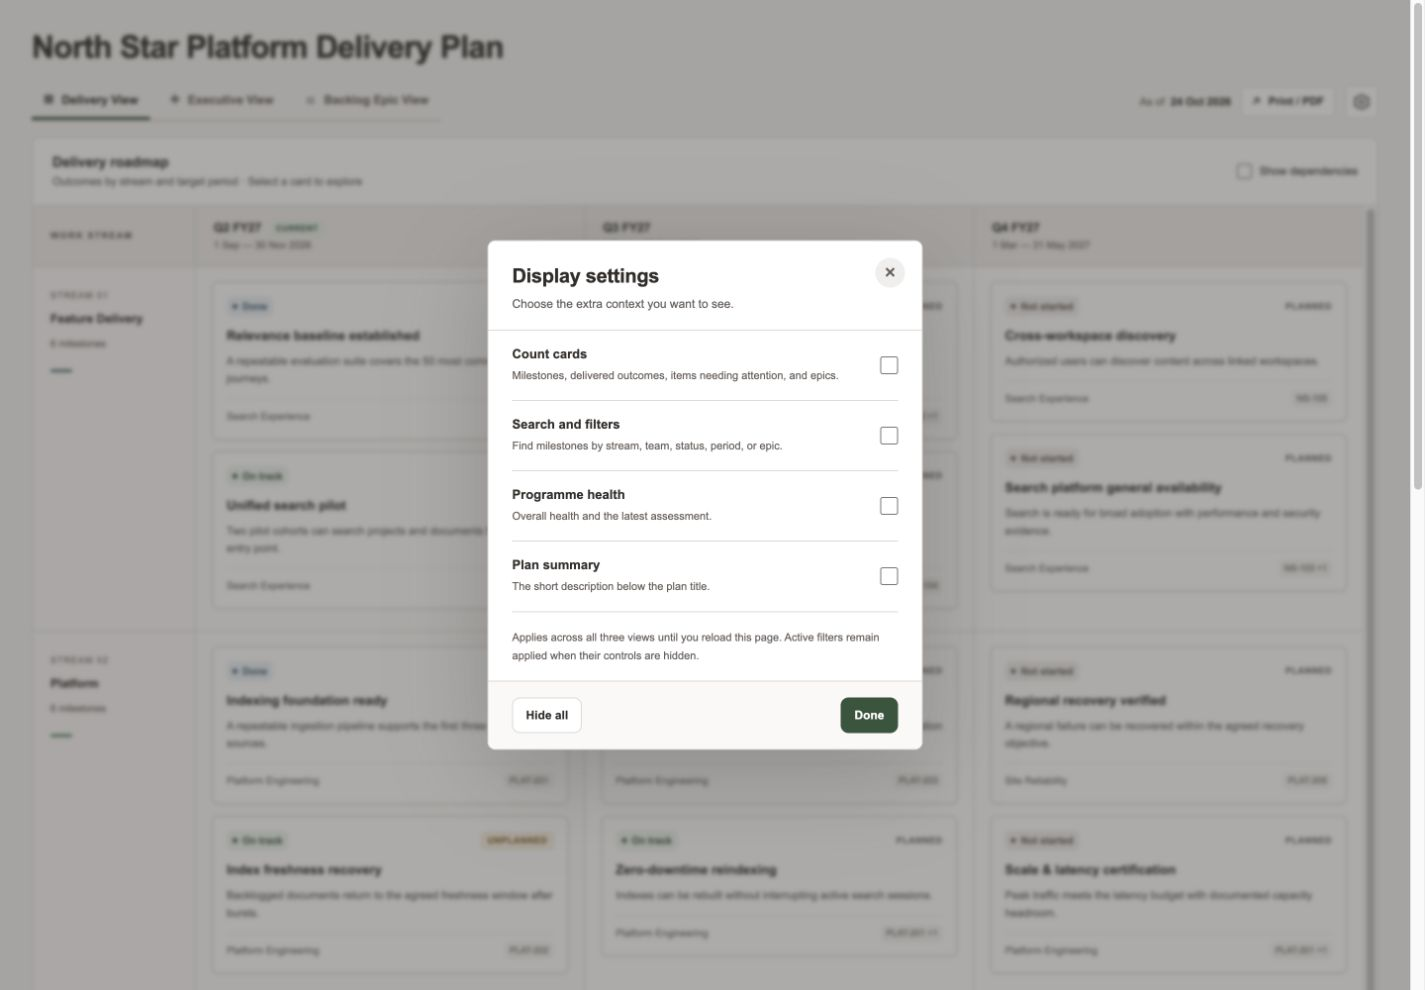
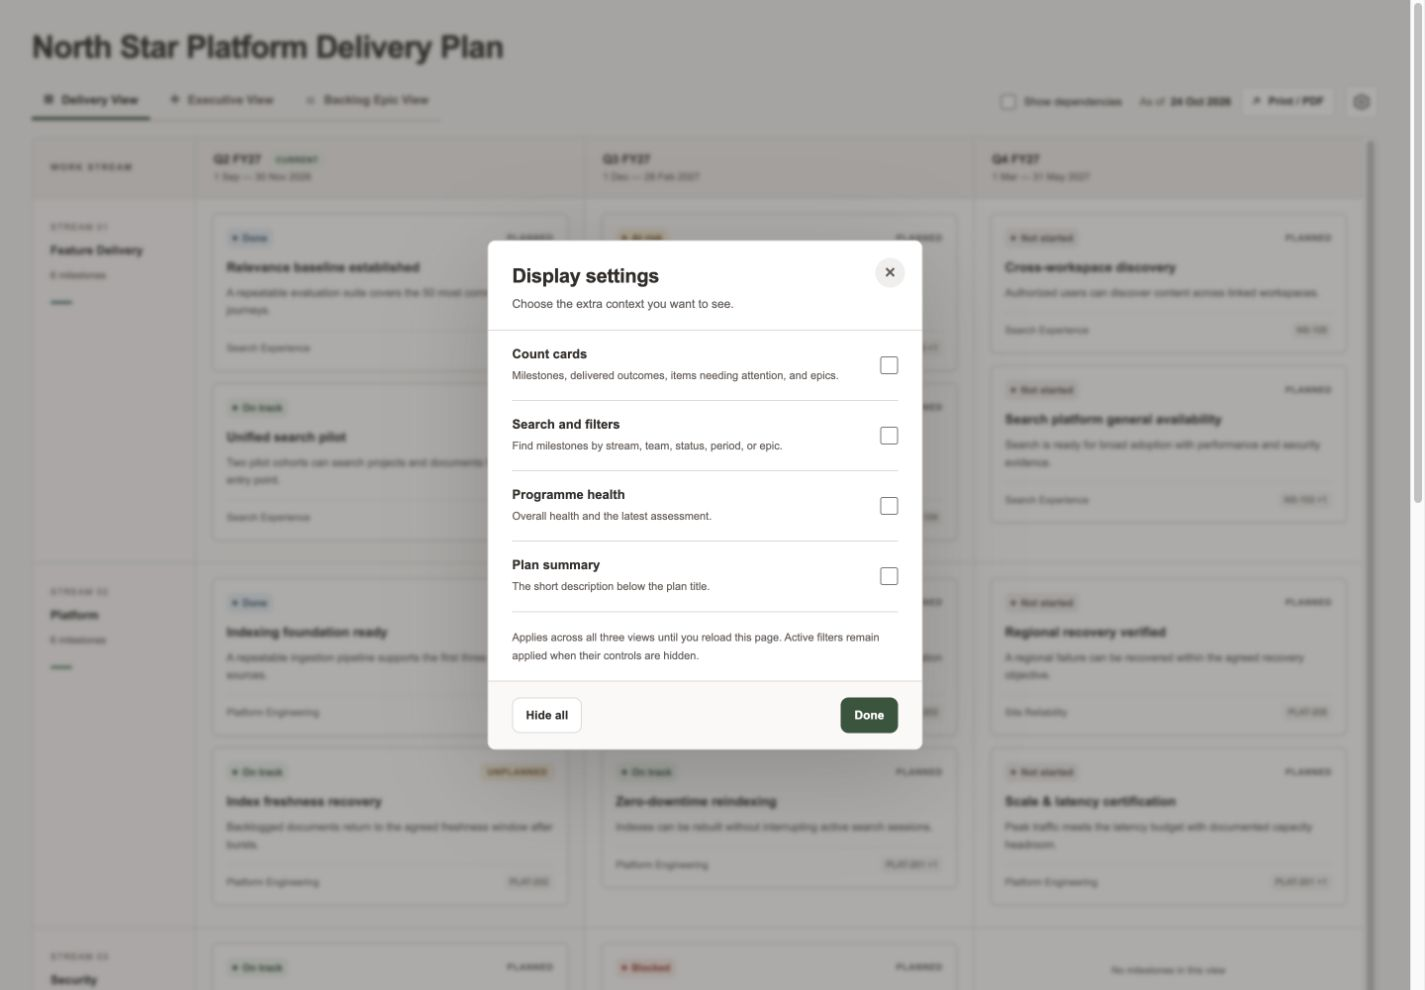
ui(planner): remove roadmap heading bar

diff --git a/Plans/north-star-platform/delivery_plan.html b/Plans/north-star-platform/delivery_plan.html
@@ -60,10 +60,8 @@ h1{font-size:clamp(25px,2.2vw,32px);line-height:1.25;letter-spacing:-.7px;margin
 .filter-summary{display:flex;align-items:center;justify-content:space-between;font-size:11px;color:var(--muted);line-height:1.6;padding:13px 2px 15px;min-height:44px;gap:12px}
 .filter-summary strong{color:var(--ink);font-weight:650}
 .board-section{background:white;border:1px solid var(--line);border-radius:var(--radius);overflow:hidden}
-.section-toolbar{display:flex;align-items:center;justify-content:space-between;gap:15px;padding:17px 20px;border-bottom:1px solid var(--line)}
 .section-title{margin:0;font-size:14px;font-weight:700}
-.section-subtitle{color:var(--muted);font-size:11px;margin:5px 0 0}
-.board-actions{display:flex;align-items:center;gap:15px}
+.roadmap-controls{display:flex;align-items:center;gap:10px;margin-right:8px}
 .toggle{font-size:11px;display:flex;gap:8px;align-items:center;white-space:nowrap}
 .toggle input{accent-color:var(--teal);width:15px;height:15px;margin:0}
 .selection-clear{font-size:10px;padding:5px 8px}
@@ -181,7 +179,7 @@ dialog::backdrop{background:#312d2a66;backdrop-filter:blur(2px)}
 
 .view-tabs button:hover{background:#ece9e6}
 
-.utility-actions{display:flex;align-items:center;gap:10px;margin-left:auto}
+.utility-actions{display:flex;align-items:center;gap:10px;flex-wrap:wrap;margin-left:auto}
 .reporting-date{font-size:11px;color:var(--muted);white-space:nowrap}
 .reporting-date time{color:var(--ink);font-weight:600;margin-left:3px}
 .compact-button{padding:7px 10px;font-size:11px;border-radius:5px}
@@ -232,6 +230,7 @@ dialog::backdrop{background:#312d2a66;backdrop-filter:blur(2px)}
 .metric-label{font-size:10px}
 .metric-note{font-size:9px}
 .utility-actions{width:100%;order:-1;justify-content:flex-end}
+.roadmap-controls{order:1;flex-basis:100%;justify-content:flex-end;margin-right:0}
 .reporting-date{margin-right:auto}
 .view-tabs{width:100%}
 .view-tabs button{flex:1;padding:10px 6px;font-size:11px;gap:4px}
@@ -239,8 +238,6 @@ dialog::backdrop{background:#312d2a66;backdrop-filter:blur(2px)}
 .filters .search-filter{flex-basis:100%}
 .filters label{flex-basis:calc(33% - 12px);min-width:85px}
 .filter-summary{font-size:10px;flex-wrap:wrap}
-.section-toolbar{padding:14px;align-items:flex-start}
-.board-actions{flex-direction:column;align-items:flex-end;gap:8px}
 .section-title{font-size:13px}
 .toggle{font-size:10px}
 .exec-grid{grid-template-columns:1fr}
@@ -268,7 +265,7 @@ dialog::backdrop{background:#312d2a66;backdrop-filter:blur(2px)}
 @media print{.utility-actions{order:0;width:auto}
 body{background:white;color:#312d2a;font-size:10px;print-color-adjust:exact;-webkit-print-color-adjust:exact}
 .workspace{padding:16px 0;max-width:none}
-.skip-link,.utility-actions button,.filters,.board-actions,.reset-button,.diagnostics,dialog{display:none!important}
+.skip-link,.utility-actions button,.filters,.roadmap-controls,.reset-button,.diagnostics,dialog{display:none!important}
 .hero{margin-bottom:15px;gap:25px}
 h1{font-size:28px}
 .health-card{flex-basis:230px}
@@ -295,7 +292,6 @@ h1{font-size:28px}
 .milestone-bottom{padding-top:6px}
 .board-section{overflow:visible}
 .lane-row{break-inside:avoid}
-.section-toolbar{padding:12px}
 .legend{padding:10px;font-size:8px}
 .exec-grid{grid-template-columns:1.15fr 1fr 1fr;gap:12px}
 .exec-grid .report-card:first-child{grid-column:auto}
@@ -333,6 +329,10 @@ h1{font-size:28px}
         <button type="button" id="tab-backlog_epic" role="tab" data-view="backlog_epic" aria-controls="view-content">☷ <span>Backlog Epic View</span></button>
       </nav>
       <div class="utility-actions">
+        <div class="roadmap-controls" id="roadmap-controls" hidden>
+          <button class="button selection-clear" id="clear-selection" type="button" hidden>Clear selection</button>
+          <label class="toggle"><input id="show-dependencies" type="checkbox"> Show dependencies</label>
+        </div>
         <span class="reporting-date">As of <time id="report-date" datetime="2026-10-24">2026-10-24</time></span>
         <button class="button compact-button" id="print-button" type="button"><span aria-hidden="true">↗</span> Print / PDF</button>
         <button class="button icon-button" id="settings-button" type="button" aria-label="Display settings" title="Display settings" aria-haspopup="dialog" aria-controls="settings-dialog" aria-expanded="false"><svg viewBox="0 0 24 24" width="18" height="18" fill="none" stroke="currentColor" stroke-width="1.7" stroke-linecap="round" stroke-linejoin="round" aria-hidden="true"><path d="m9 3-.6 2.4-2 .9-2.2-.7-2 3.4L4 10.7v2.6l-1.8 1.7 2 3.4 2.2-.7 2 .9L9 21h6l.6-2.4 2-.9 2.2.7 2-3.4-1.8-1.7v-2.6L21.8 9l-2-3.4-2.2.7-2-.9L15 3Z"/><circle cx="12" cy="12" r="3"/></svg></button>
@@ -435,7 +435,7 @@ h1{font-size:28px}
     }).join('');
     const visible = new Set(items.map(m => m.id));
     const printLinks = plan.dependencies.filter(e => visible.has(e.from) || visible.has(e.to));
-    return `<section class="board-section"><div class="section-toolbar"><div><h2 class="section-title">${executive ? 'Strategic milestones' : 'Delivery roadmap'}</h2><p class="section-subtitle">${executive ? 'Selected outcomes for stakeholder review' : 'Outcomes by stream and target period · Select a card to explore'}</p></div><div class="board-actions"><button class="button selection-clear" id="clear-selection" type="button" ${state.selected ? '' : 'hidden'}>Clear selection</button><label class="toggle"><input id="show-dependencies" type="checkbox" ${state.showDeps ? 'checked' : ''}> Show dependencies</label></div></div>
+    return `<section class="board-section" aria-label="${executive ? 'Strategic milestones' : 'Delivery roadmap'}">
       <div class="board-scroll" id="board-scroll" role="region" aria-label="Roadmap timeline" tabindex="0"><div class="roadmap" id="roadmap" style="--cols:${plan.periods.length}"><div class="board-head"><div class="board-head-cell">WORK STREAM</div>${heads}</div>${rows}<svg class="dependency-layer" id="dependency-layer" aria-hidden="true"></svg></div></div>
       ${statusLegend()}<div class="print-dependencies"><strong>Dependencies (including linked milestones outside this view)</strong>${printLinks.map(e => `<div>${escape(byId[e.from].title)} ${e.kind === 'relates_to' ? '↔' : '→'} ${escape(byId[e.to].title)} · ${escape(kinds[e.kind])}</div>`).join('')}</div></section>`;
   }
@@ -490,8 +490,9 @@ h1{font-size:28px}
     if ($('clear-active-filters')) $('clear-active-filters').addEventListener('click',()=>{resetFilters();render();$('view-content').focus({preventScroll:true});});
     const draft = !plan.plan.as_of || !plan.periods.length || !plan.streams.length || !plan.milestones.length;
     $('view-content').innerHTML = (draft ? '<div class="draft-banner"><strong>Draft plan</strong> · Complete the reporting date, periods, streams, and milestones before publishing.</div>' : '') + (state.view === 'executive' ? executive(items) : state.view === 'backlog_epic' ? epicView(items) : board(items));
-    if ($('show-dependencies')) $('show-dependencies').addEventListener('change',event => {state.showDeps=event.target.checked;requestDraw();});
-    if ($('clear-selection')) $('clear-selection').addEventListener('click',()=>{state.selected=null;render();});
+    $('roadmap-controls').hidden=!$('roadmap');
+    $('show-dependencies').checked=state.showDeps;
+    $('clear-selection').hidden=!state.selected;
     if ($('expand-epics')) $('expand-epics').addEventListener('click',event=>{
       const details=[...document.querySelectorAll('.epic-group')];const expand=details.some(d=>!d.open);details.forEach(d=>d.open=expand);event.target.textContent=expand?'Collapse all':'Expand all';
     });
@@ -580,6 +581,8 @@ h1{font-size:28px}
     addOptions('filter-period',plan.periods.map(p=>[p.id,p.label]));addOptions('filter-epic',epicKeys.map(key=>[key,key]));
     Object.keys(filters).forEach(key=>$(`filter-${key}`).addEventListener(key==='search'?'input':'change',event=>{filters[key]=event.target.value;render();}));
     $('reset-filters').addEventListener('click',()=>{resetFilters();render();});
+    $('show-dependencies').addEventListener('change',event=>{state.showDeps=event.target.checked;requestDraw();});
+    $('clear-selection').addEventListener('click',()=>{state.selected=null;render();$('show-dependencies').focus({preventScroll:true});});
     $('settings-button').addEventListener('click',()=>{$('settings-dialog').showModal();$('settings-button').setAttribute('aria-expanded','true');});
     for (const key of Object.keys(display)) $(`display-${key}`).addEventListener('change',event=>{display[key]=event.target.checked;applyDisplay();});
     $('hide-all-panels').addEventListener('click',()=>{Object.keys(display).forEach(key=>display[key]=false);applyDisplay();});

diff --git a/Skills/delivery-planner/assets/templates/plan.js b/Skills/delivery-planner/assets/templates/plan.js
@@ -66,7 +66,7 @@
     }).join('');
     const visible = new Set(items.map(m => m.id));
     const printLinks = plan.dependencies.filter(e => visible.has(e.from) || visible.has(e.to));
-    return `<section class="board-section"><div class="section-toolbar"><div><h2 class="section-title">${executive ? 'Strategic milestones' : 'Delivery roadmap'}</h2><p class="section-subtitle">${executive ? 'Selected outcomes for stakeholder review' : 'Outcomes by stream and target period · Select a card to explore'}</p></div><div class="board-actions"><button class="button selection-clear" id="clear-selection" type="button" ${state.selected ? '' : 'hidden'}>Clear selection</button><label class="toggle"><input id="show-dependencies" type="checkbox" ${state.showDeps ? 'checked' : ''}> Show dependencies</label></div></div>
+    return `<section class="board-section" aria-label="${executive ? 'Strategic milestones' : 'Delivery roadmap'}">
       <div class="board-scroll" id="board-scroll" role="region" aria-label="Roadmap timeline" tabindex="0"><div class="roadmap" id="roadmap" style="--cols:${plan.periods.length}"><div class="board-head"><div class="board-head-cell">WORK STREAM</div>${heads}</div>${rows}<svg class="dependency-layer" id="dependency-layer" aria-hidden="true"></svg></div></div>
       ${statusLegend()}<div class="print-dependencies"><strong>Dependencies (including linked milestones outside this view)</strong>${printLinks.map(e => `<div>${escape(byId[e.from].title)} ${e.kind === 'relates_to' ? '↔' : '→'} ${escape(byId[e.to].title)} · ${escape(kinds[e.kind])}</div>`).join('')}</div></section>`;
   }
@@ -121,8 +121,9 @@
     if ($('clear-active-filters')) $('clear-active-filters').addEventListener('click',()=>{resetFilters();render();$('view-content').focus({preventScroll:true});});
     const draft = !plan.plan.as_of || !plan.periods.length || !plan.streams.length || !plan.milestones.length;
     $('view-content').innerHTML = (draft ? '<div class="draft-banner"><strong>Draft plan</strong> · Complete the reporting date, periods, streams, and milestones before publishing.</div>' : '') + (state.view === 'executive' ? executive(items) : state.view === 'backlog_epic' ? epicView(items) : board(items));
-    if ($('show-dependencies')) $('show-dependencies').addEventListener('change',event => {state.showDeps=event.target.checked;requestDraw();});
-    if ($('clear-selection')) $('clear-selection').addEventListener('click',()=>{state.selected=null;render();});
+    $('roadmap-controls').hidden=!$('roadmap');
+    $('show-dependencies').checked=state.showDeps;
+    $('clear-selection').hidden=!state.selected;
     if ($('expand-epics')) $('expand-epics').addEventListener('click',event=>{
       const details=[...document.querySelectorAll('.epic-group')];const expand=details.some(d=>!d.open);details.forEach(d=>d.open=expand);event.target.textContent=expand?'Collapse all':'Expand all';
     });
@@ -211,6 +212,8 @@
     addOptions('filter-period',plan.periods.map(p=>[p.id,p.label]));addOptions('filter-epic',epicKeys.map(key=>[key,key]));
     Object.keys(filters).forEach(key=>$(`filter-${key}`).addEventListener(key==='search'?'input':'change',event=>{filters[key]=event.target.value;render();}));
     $('reset-filters').addEventListener('click',()=>{resetFilters();render();});
+    $('show-dependencies').addEventListener('change',event=>{state.showDeps=event.target.checked;requestDraw();});
+    $('clear-selection').addEventListener('click',()=>{state.selected=null;render();$('show-dependencies').focus({preventScroll:true});});
     $('settings-button').addEventListener('click',()=>{$('settings-dialog').showModal();$('settings-button').setAttribute('aria-expanded','true');});
     for (const key of Object.keys(display)) $(`display-${key}`).addEventListener('change',event=>{display[key]=event.target.checked;applyDisplay();});
     $('hide-all-panels').addEventListener('click',()=>{Object.keys(display).forEach(key=>display[key]=false);applyDisplay();});

diff --git a/Skills/delivery-planner/assets/templates/plan.css b/Skills/delivery-planner/assets/templates/plan.css
@@ -52,10 +52,8 @@ h1{font-size:clamp(25px,2.2vw,32px);line-height:1.25;letter-spacing:-.7px;margin
 .filter-summary{display:flex;align-items:center;justify-content:space-between;font-size:11px;color:var(--muted);line-height:1.6;padding:13px 2px 15px;min-height:44px;gap:12px}
 .filter-summary strong{color:var(--ink);font-weight:650}
 .board-section{background:white;border:1px solid var(--line);border-radius:var(--radius);overflow:hidden}
-.section-toolbar{display:flex;align-items:center;justify-content:space-between;gap:15px;padding:17px 20px;border-bottom:1px solid var(--line)}
 .section-title{margin:0;font-size:14px;font-weight:700}
-.section-subtitle{color:var(--muted);font-size:11px;margin:5px 0 0}
-.board-actions{display:flex;align-items:center;gap:15px}
+.roadmap-controls{display:flex;align-items:center;gap:10px;margin-right:8px}
 .toggle{font-size:11px;display:flex;gap:8px;align-items:center;white-space:nowrap}
 .toggle input{accent-color:var(--teal);width:15px;height:15px;margin:0}
 .selection-clear{font-size:10px;padding:5px 8px}
@@ -173,7 +171,7 @@ dialog::backdrop{background:#312d2a66;backdrop-filter:blur(2px)}
 
 .view-tabs button:hover{background:#ece9e6}
 
-.utility-actions{display:flex;align-items:center;gap:10px;margin-left:auto}
+.utility-actions{display:flex;align-items:center;gap:10px;flex-wrap:wrap;margin-left:auto}
 .reporting-date{font-size:11px;color:var(--muted);white-space:nowrap}
 .reporting-date time{color:var(--ink);font-weight:600;margin-left:3px}
 .compact-button{padding:7px 10px;font-size:11px;border-radius:5px}
@@ -224,6 +222,7 @@ dialog::backdrop{background:#312d2a66;backdrop-filter:blur(2px)}
 .metric-label{font-size:10px}
 .metric-note{font-size:9px}
 .utility-actions{width:100%;order:-1;justify-content:flex-end}
+.roadmap-controls{order:1;flex-basis:100%;justify-content:flex-end;margin-right:0}
 .reporting-date{margin-right:auto}
 .view-tabs{width:100%}
 .view-tabs button{flex:1;padding:10px 6px;font-size:11px;gap:4px}
@@ -231,8 +230,6 @@ dialog::backdrop{background:#312d2a66;backdrop-filter:blur(2px)}
 .filters .search-filter{flex-basis:100%}
 .filters label{flex-basis:calc(33% - 12px);min-width:85px}
 .filter-summary{font-size:10px;flex-wrap:wrap}
-.section-toolbar{padding:14px;align-items:flex-start}
-.board-actions{flex-direction:column;align-items:flex-end;gap:8px}
 .section-title{font-size:13px}
 .toggle{font-size:10px}
 .exec-grid{grid-template-columns:1fr}
@@ -260,7 +257,7 @@ dialog::backdrop{background:#312d2a66;backdrop-filter:blur(2px)}
 @media print{.utility-actions{order:0;width:auto}
 body{background:white;color:#312d2a;font-size:10px;print-color-adjust:exact;-webkit-print-color-adjust:exact}
 .workspace{padding:16px 0;max-width:none}
-.skip-link,.utility-actions button,.filters,.board-actions,.reset-button,.diagnostics,dialog{display:none!important}
+.skip-link,.utility-actions button,.filters,.roadmap-controls,.reset-button,.diagnostics,dialog{display:none!important}
 .hero{margin-bottom:15px;gap:25px}
 h1{font-size:28px}
 .health-card{flex-basis:230px}
@@ -287,7 +284,6 @@ h1{font-size:28px}
 .milestone-bottom{padding-top:6px}
 .board-section{overflow:visible}
 .lane-row{break-inside:avoid}
-.section-toolbar{padding:12px}
 .legend{padding:10px;font-size:8px}
 .exec-grid{grid-template-columns:1.15fr 1fr 1fr;gap:12px}
 .exec-grid .report-card:first-child{grid-column:auto}

diff --git a/docs/verification.md b/docs/verification.md
@@ -62,6 +62,7 @@ Inspected the generated HTML through a localhost-only server in the Codex browse
 - Display settings independently enables all four optional panels across the three views. Hide all restores the compact layout. Close, Done, and Escape dismiss the overlay and restore focus to its trigger. Reload resets the settings.
 - Hiding the controls with PLAT-201 selected preserves the one-epic, three-milestone result and its visible Clear filters action. Clearing restores all 22 groups (21 epic groups plus unlinked milestones) and hides the inactive result strip.
 - Dependency display still renders 21 valid relationships after enabling count cards. Selecting and clearing a milestone correctly shows and hides the selection summary.
+- Delivery and Executive roadmaps start directly with period headings. Show dependencies and Clear selection are outside the board beside the view controls. Dependency state survives view switches; roadmap controls are hidden in Backlog Epic View. Clearing a selection returns focus to Show dependencies.
 - The compact toolbar and settings overlay were inspected at a 390-pixel viewport width. The dialog fits inside the viewport and the page has no horizontal overflow.
 - No JavaScript errors were reported during the inspected interactions.
 

diff --git a/docs/delivery-planner-spec.md b/docs/delivery-planner-spec.md
@@ -347,6 +347,7 @@ Maintain these styles in the shared renderer templates, so every generated plan 
 ### Delivery View
 
 - Display all streams across all periods, including empty cells.
+- Start the board directly with period headings. Keep Show dependencies and Clear selection with the page's view controls, outside the board, without a separate roadmap title/subtitle bar. Hide roadmap controls in Backlog Epic View and when no roadmap can be rendered.
 - Show milestone title, status, planned/unplanned tag, owner team, and related epic keys on cards or in accessible details depending on available space.
 - Offer filters for stream, owner/contributing team, status, tag, and epic.
 - Show outcome, notes, exact target date when present, ownership, epics, and incoming/outgoing relationships in card details.
